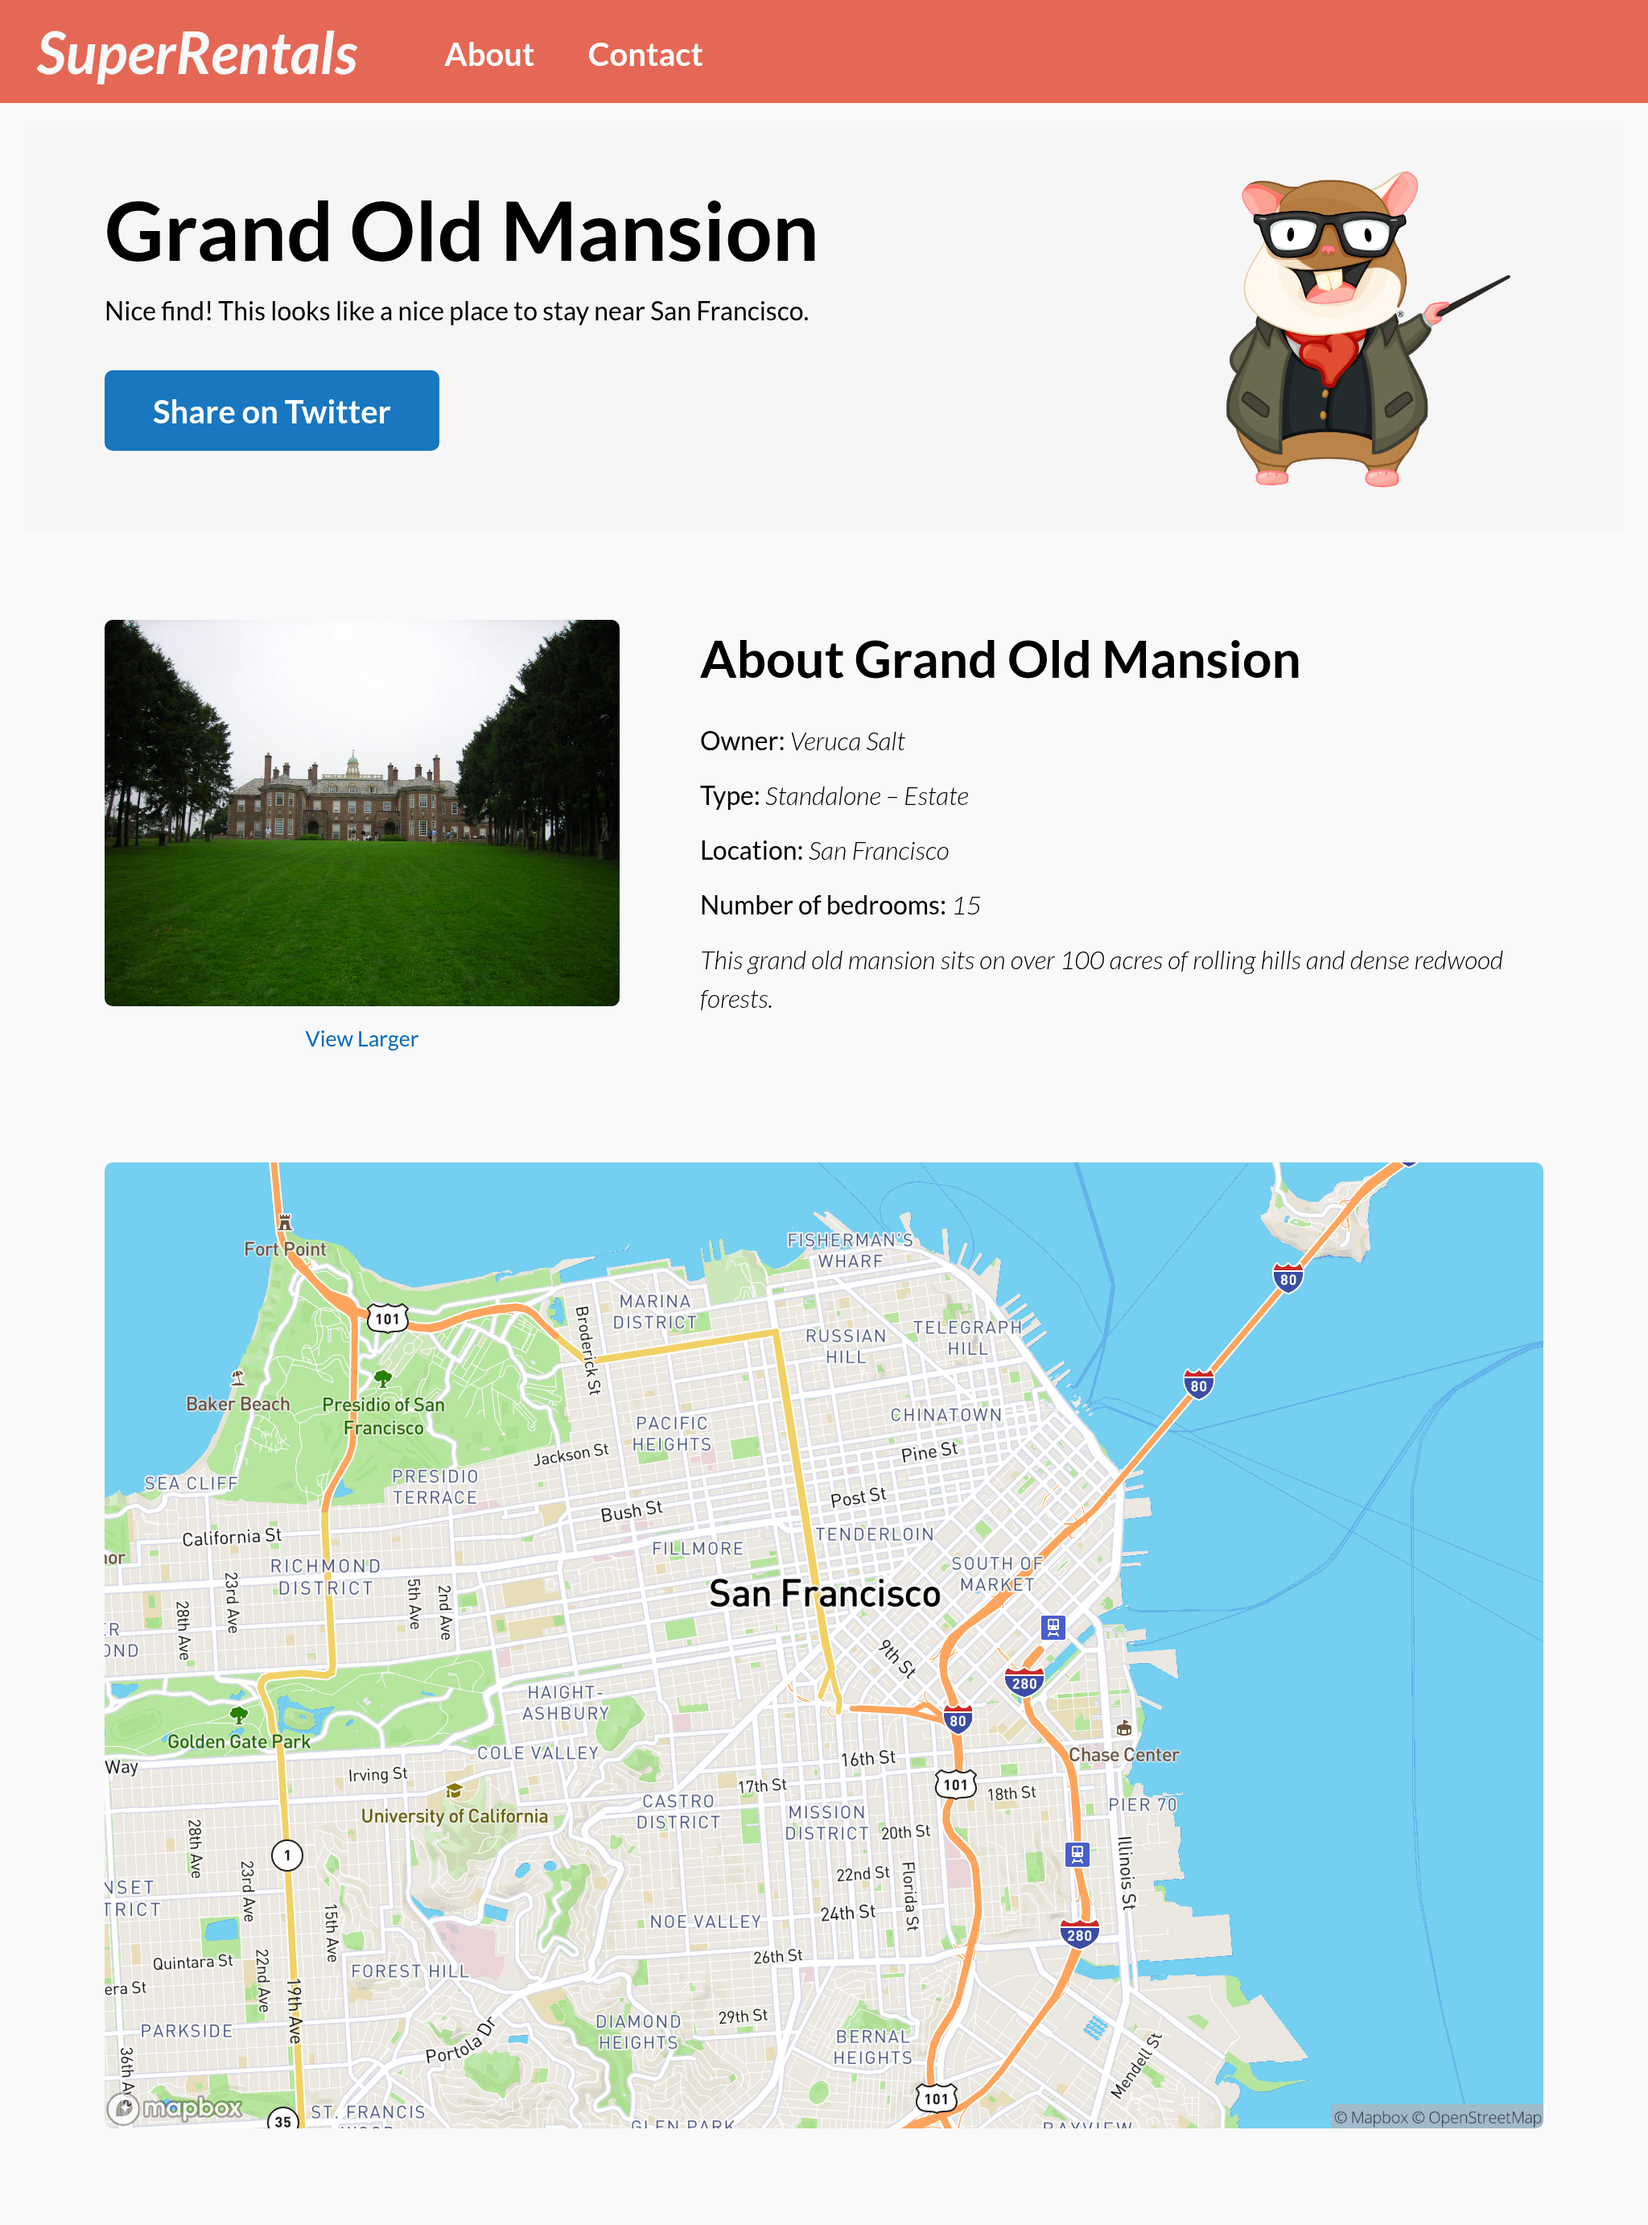
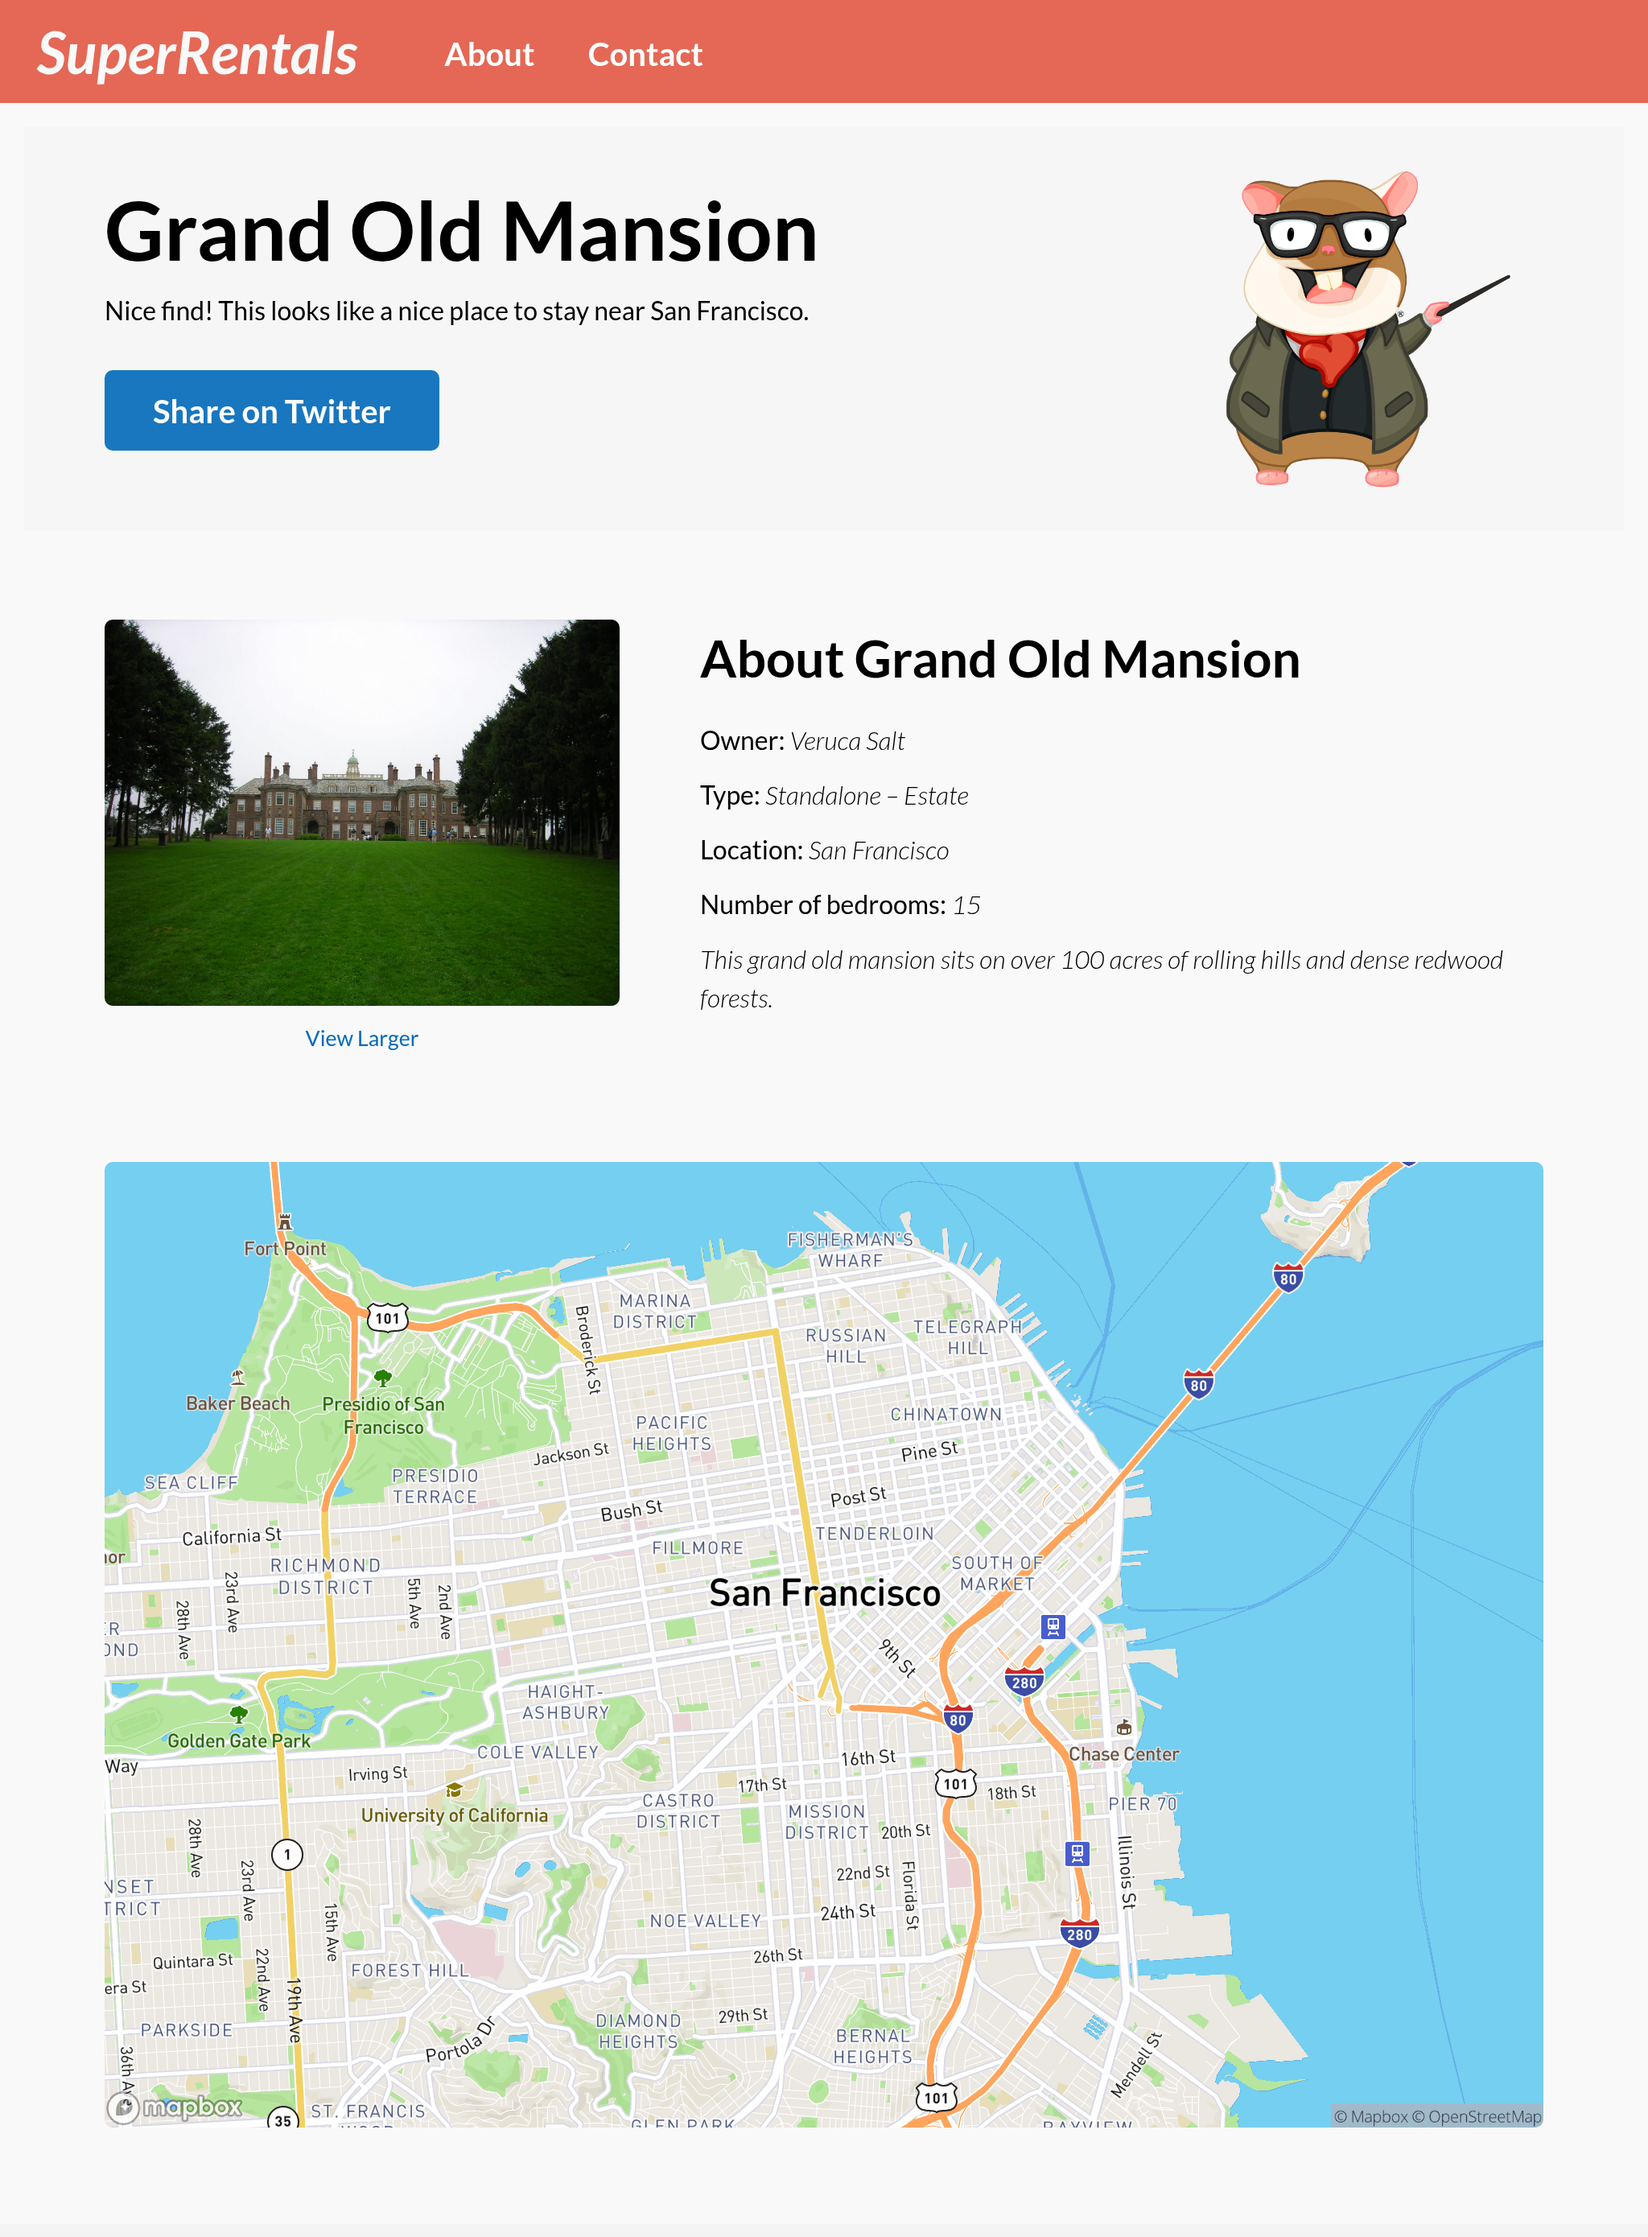
[CRON] Tuesday May 13, 2025
---

Commit:  ember-learn/super-rentals-tutorial@43f1a8e6605a13775ebce3422e6ca3b5109170eb
Script:  https://github.com/ember-learn/super-rentals-tutorial/blob/43f1a8e6605a13775ebce3422e6ca3b5109170eb/.github/workflows/build.yml
Logs:    https://github.com/ember-learn/super-rentals-tutorial/commit/43f1a8e6605a13775ebce3422e6ca3b5109170eb/checks

diff --git a/guides/release/tutorial/part-2/ember-data.md b/guides/release/tutorial/part-2/ember-data.md
@@ -414,6 +414,6 @@ The UI works exactly the same as before as well, just with much less code!
 
 <img src="/images/tutorial/part-2/ember-data/homepage@2x.png" alt="The homepage works exactly the same as before, but with much less code!" width="1024" height="1130">
 
-<img src="/images/tutorial/part-2/ember-data/detailed@2x.png" alt="The details page works exactly the same as before, but with much less code!" width="1024" height="1382">
+<img src="/images/tutorial/part-2/ember-data/detailed@2x.png" alt="The details page works exactly the same as before, but with much less code!" width="1024" height="1390">
 
 EmberData offers many, many features (like managing the _relationships_ between different models) and there's a lot more we can learn about it. For example, if your backend's have some inconsistencies across different endpoints, EmberData allows you to define request specific handlers and builders! We are just scratching the surface here. If you want to learn more about EmberData, check out [its own dedicated section](../../../models/) in the guides!

diff --git a/guides/release/tutorial/part-2/route-params.md b/guides/release/tutorial/part-2/route-params.md
@@ -2,7 +2,7 @@
 
 Now that we are fetching real data from our "server", let's add a new feature — dedicated pages for each of our rentals:
 
-<img src="/images/tutorial/part-2/route-params/grand-old-mansion@2x.png" alt="The Super Rentals app (rentals page) by the end of the chapter" width="1024" height="1382">
+<img src="/images/tutorial/part-2/route-params/grand-old-mansion@2x.png" alt="The Super Rentals app (rentals page) by the end of the chapter" width="1024" height="1390">
 
 While adding these rental pages, you will learn about:
 
@@ -474,7 +474,7 @@ module('Acceptance | super rentals', function (hooks) {
 
 Now, when we visit `http://localhost:4200/rentals/grand-old-mansion`, this is what we see:
 
-<img src="/images/tutorial/part-2/route-params/grand-old-mansion@2x.png" alt="A dedicated page for the Grand Old Mansion" width="1024" height="1382">
+<img src="/images/tutorial/part-2/route-params/grand-old-mansion@2x.png" alt="A dedicated page for the Grand Old Mansion" width="1024" height="1390">
 
 And if we run our tests now...
 
